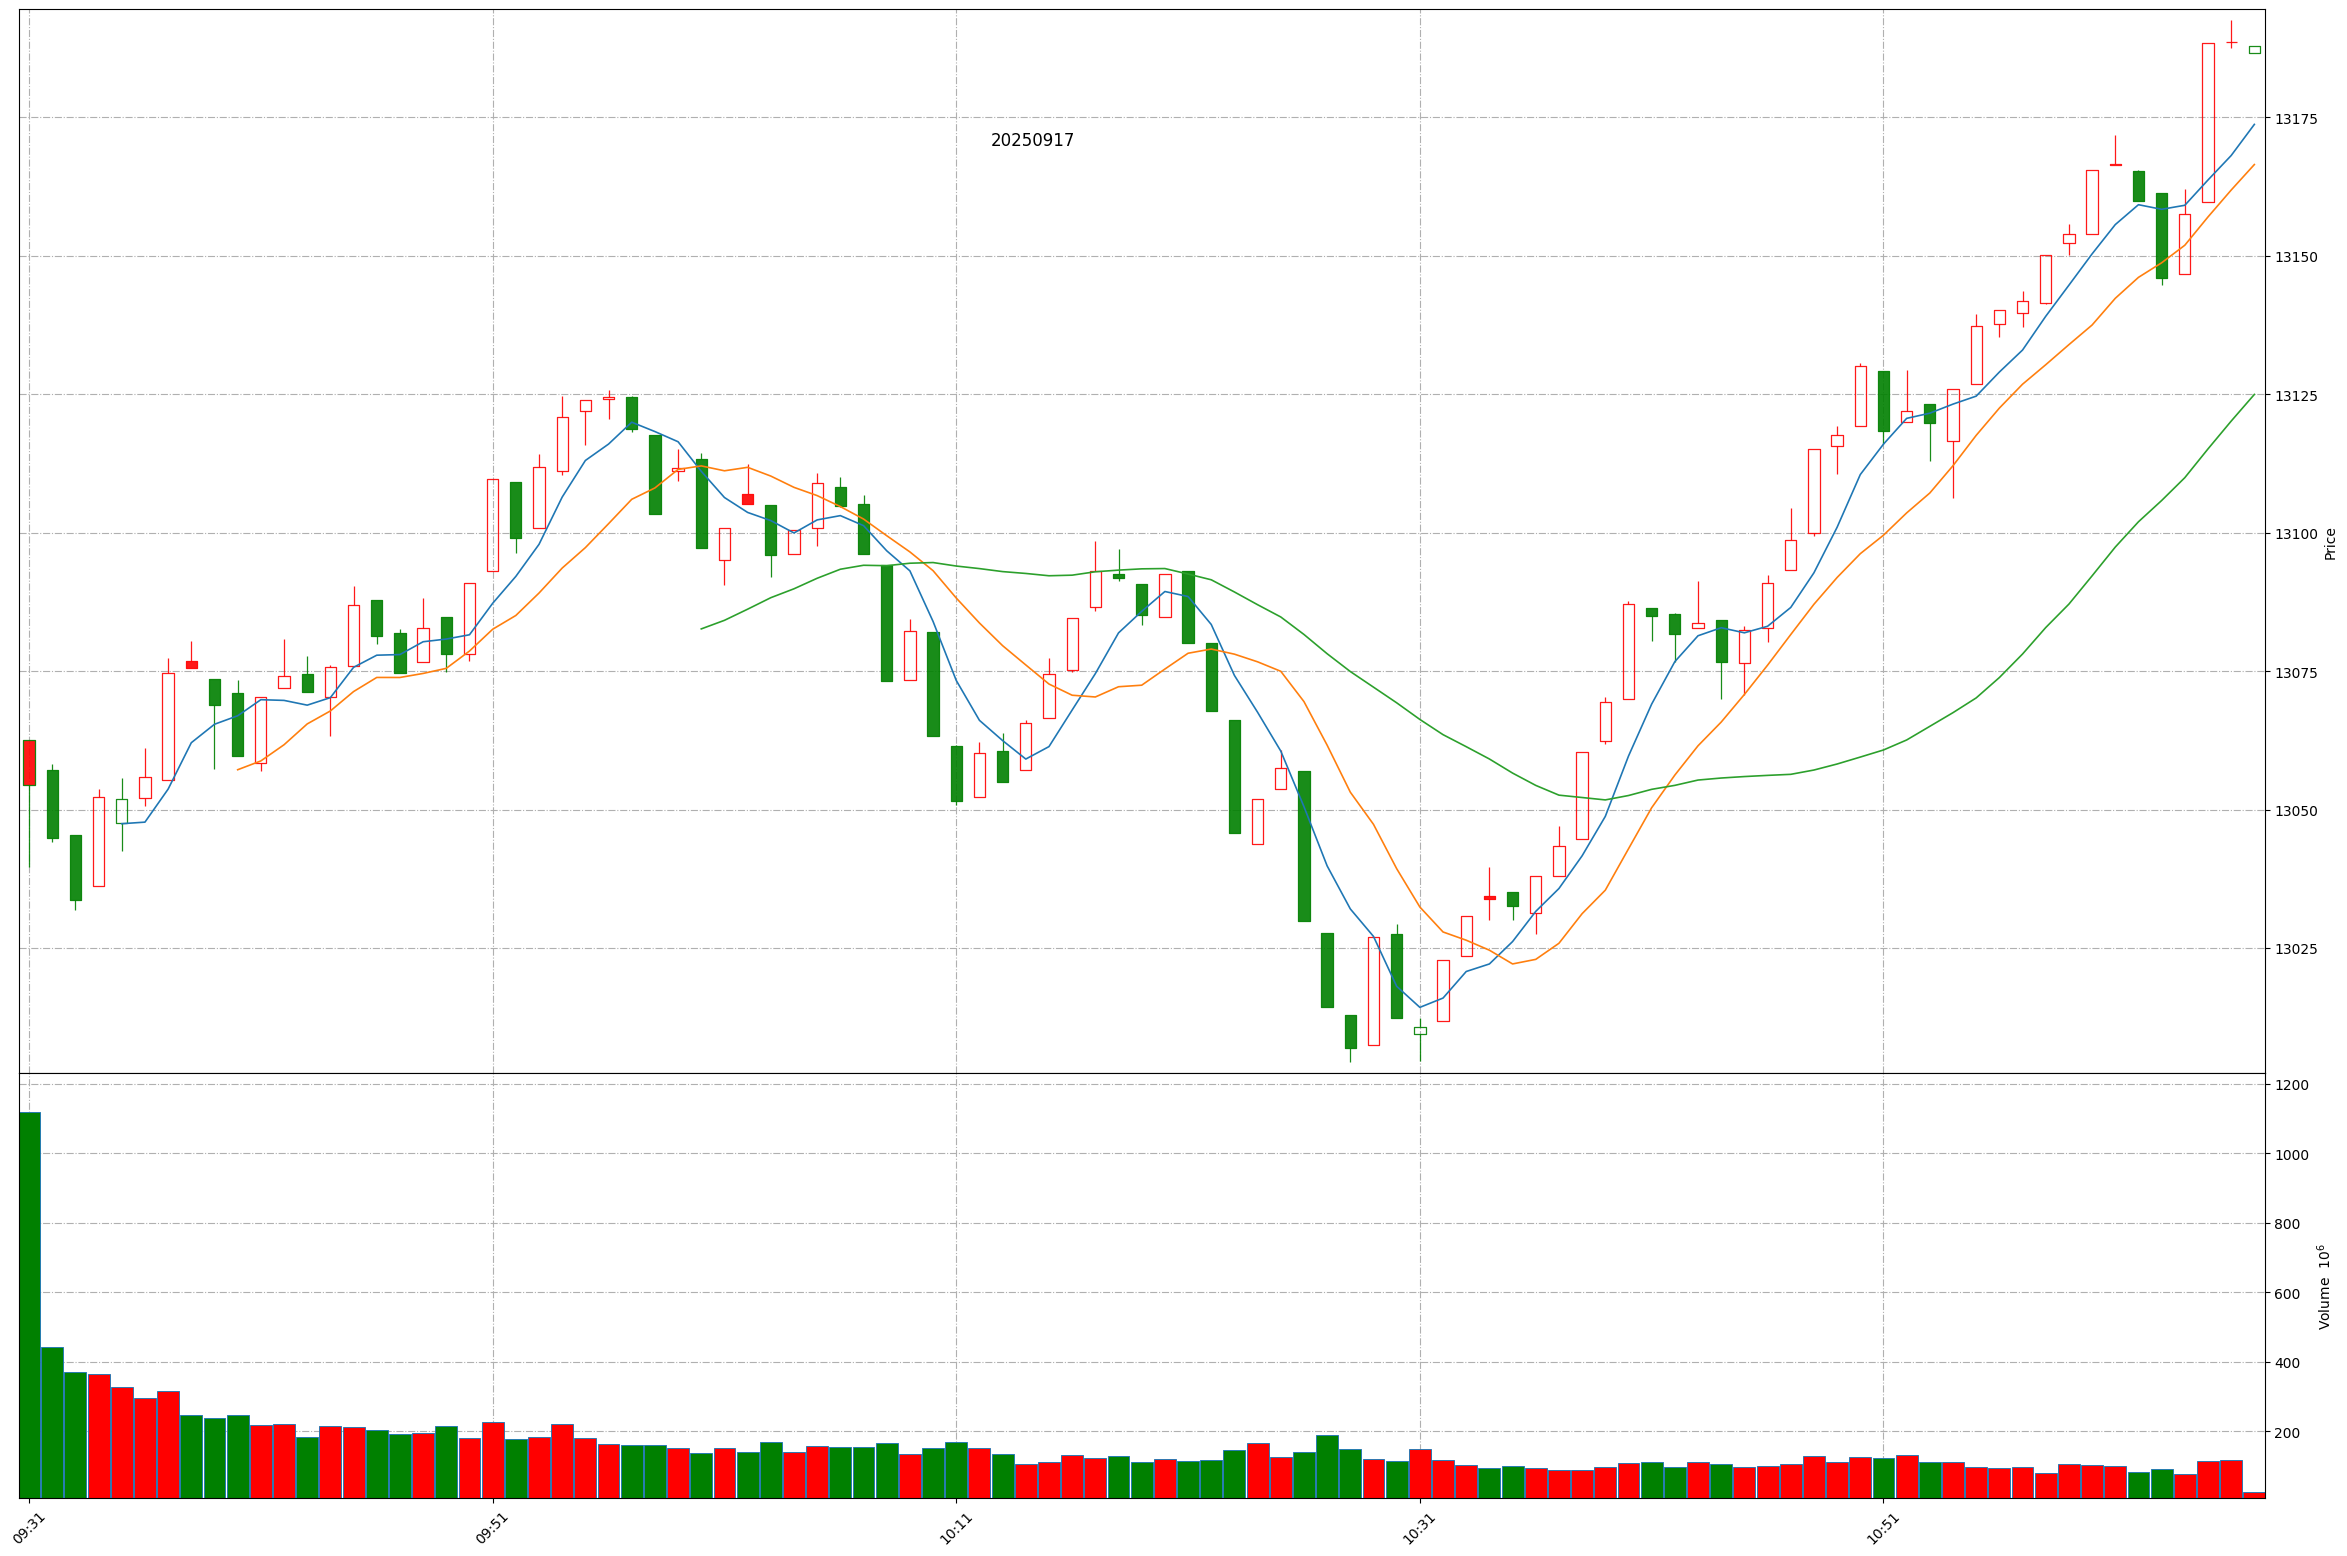
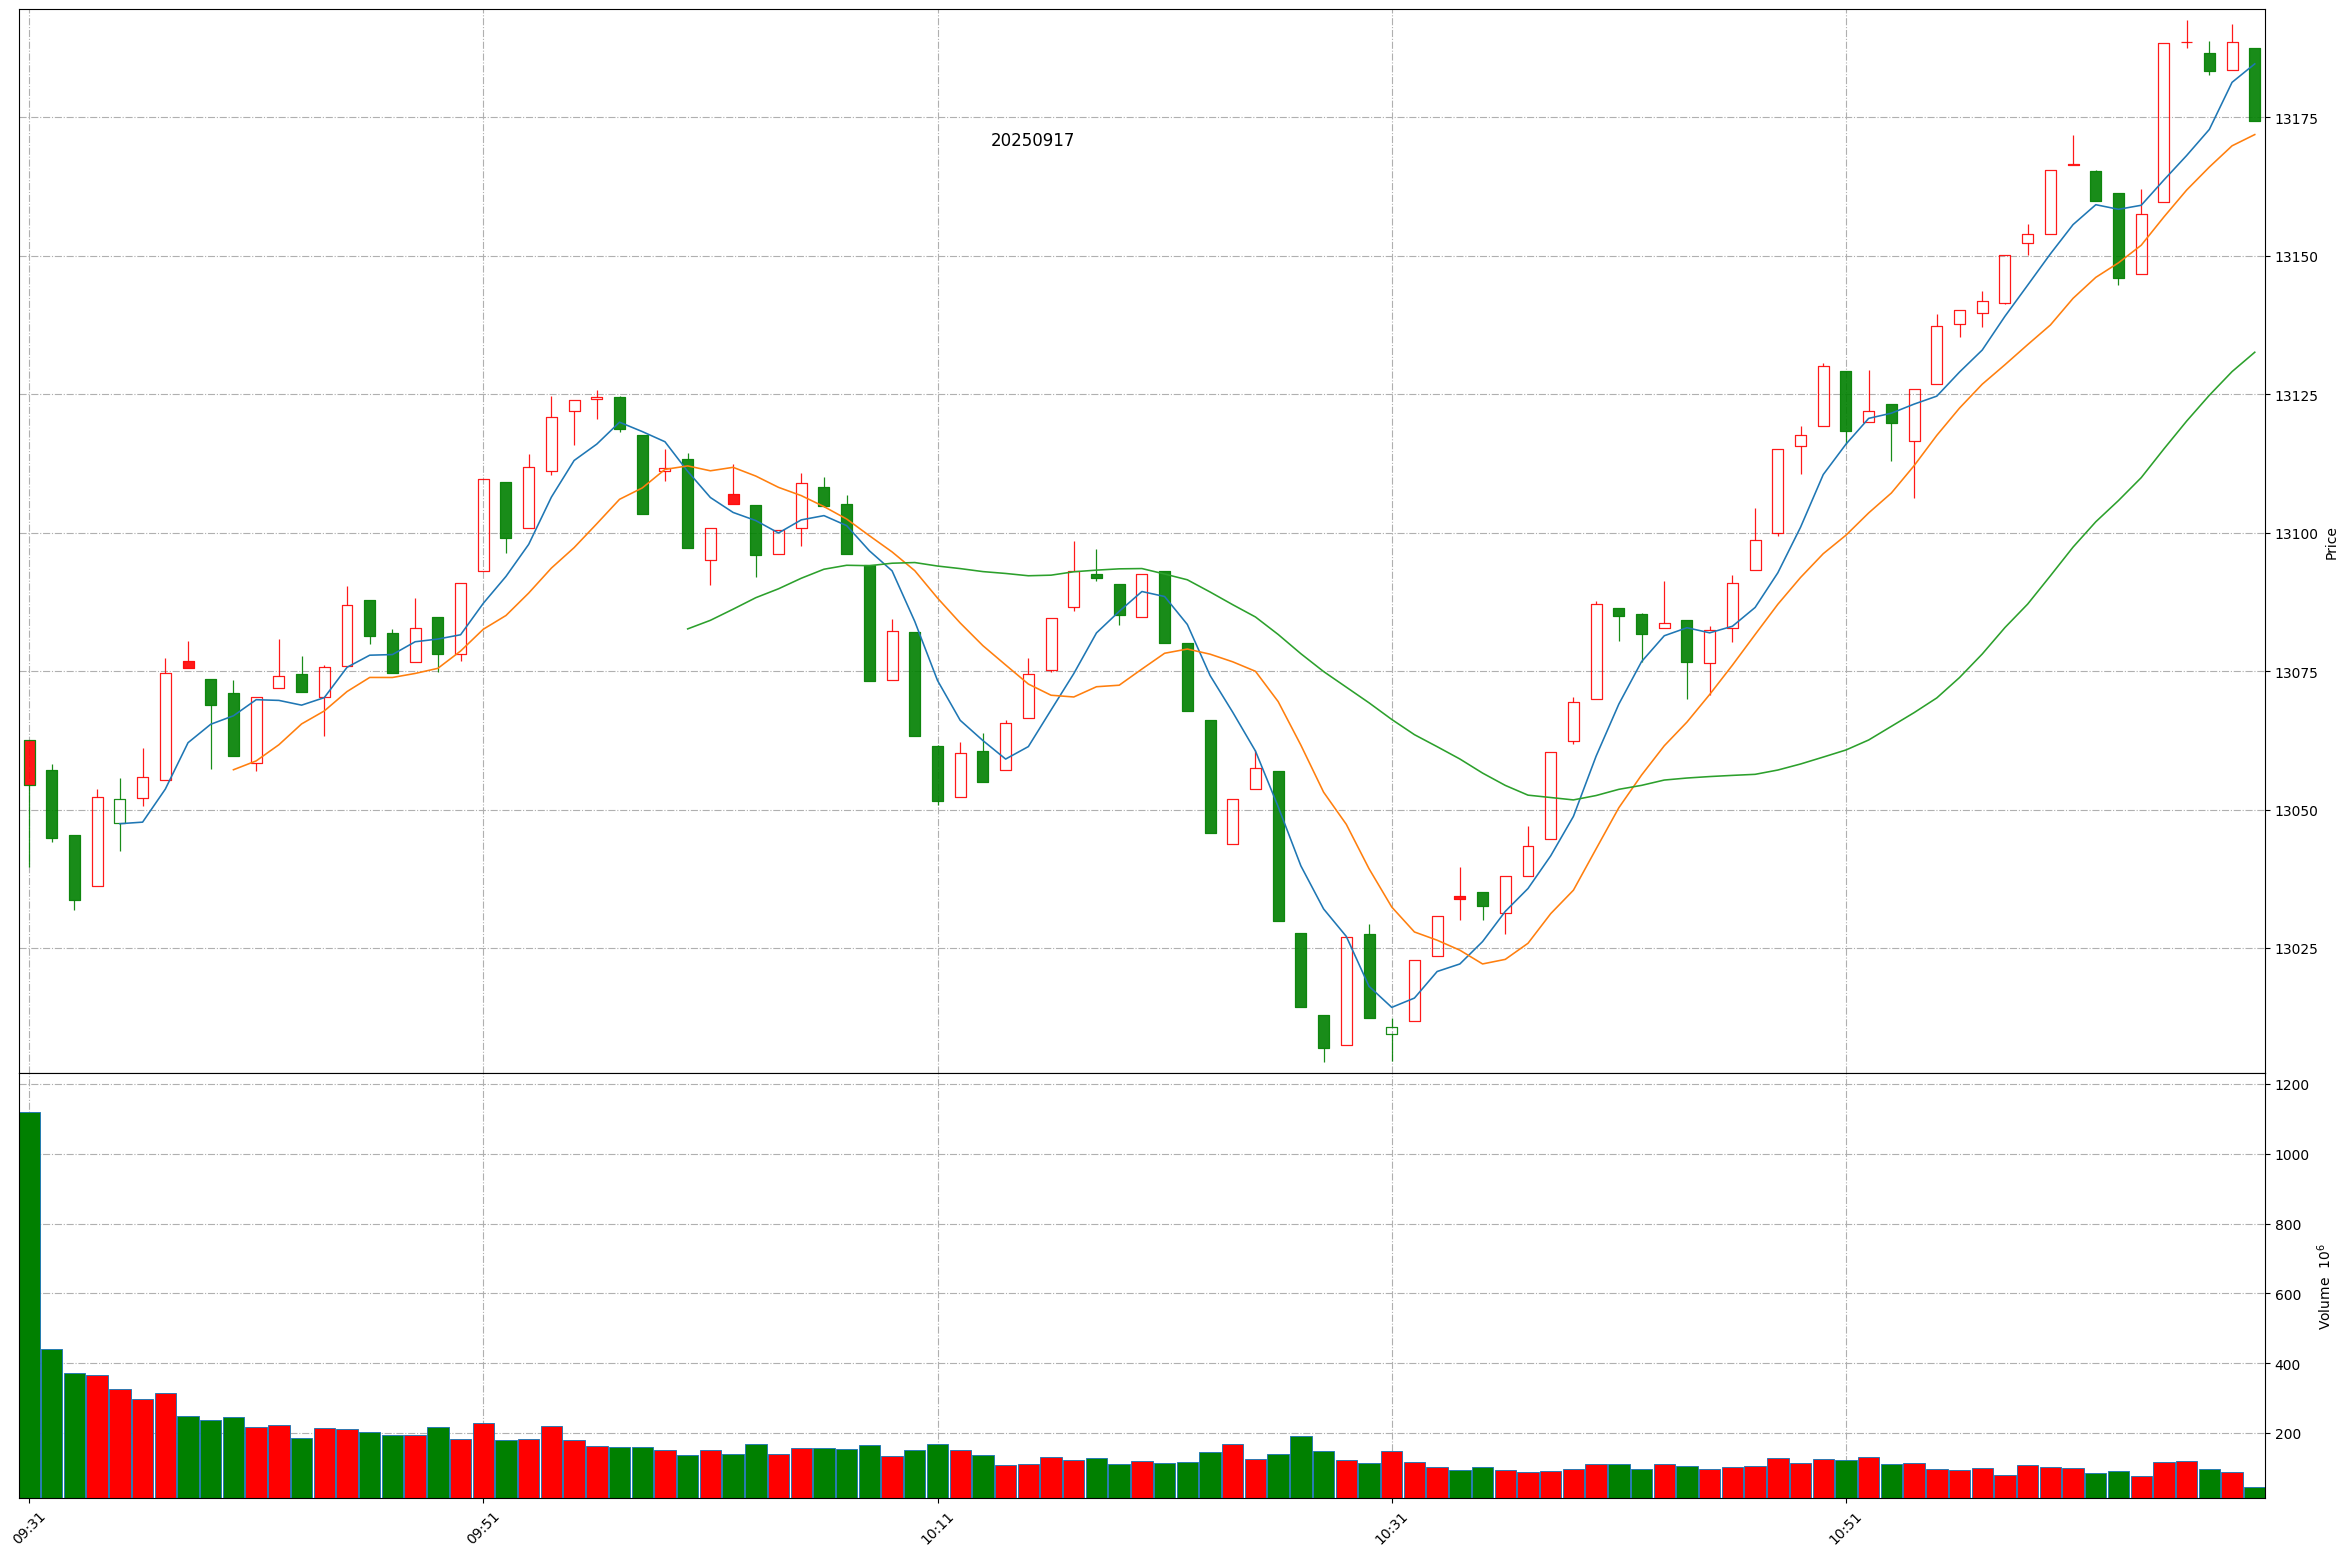
Github action update at 2025-09-17 11:08:50.

diff --git a/README.md b/README.md
@@ -1,11 +1,11 @@
 
 # Daily-A-share-market-quotes 每日 A 股指数（5min 更新）- 20250917
 
-### 上证指数 20250917 11:6
+### 上证指数 20250917 11:8
 ![](./fig/2025/9/20250917-sh000001.png)
 
-### 深证成指 20250917 11:6
+### 深证成指 20250917 11:8
 ![](./fig/2025/9/20250917-sz399001.png)
 
-### 北证50 20250917 11:6
+### 北证50 20250917 11:8
 ![](./fig/2025/9/20250917-bj899050.png)
